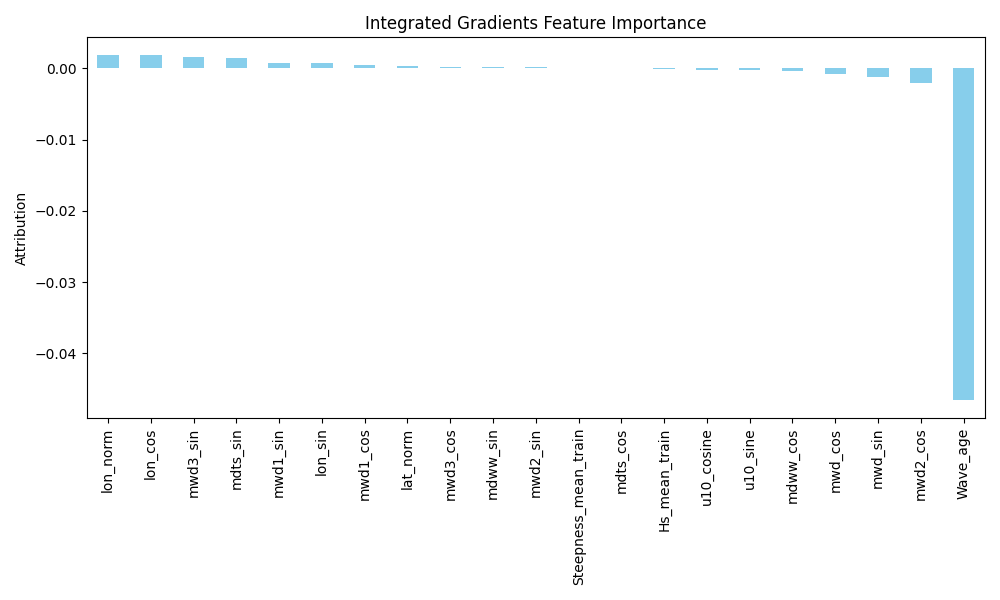
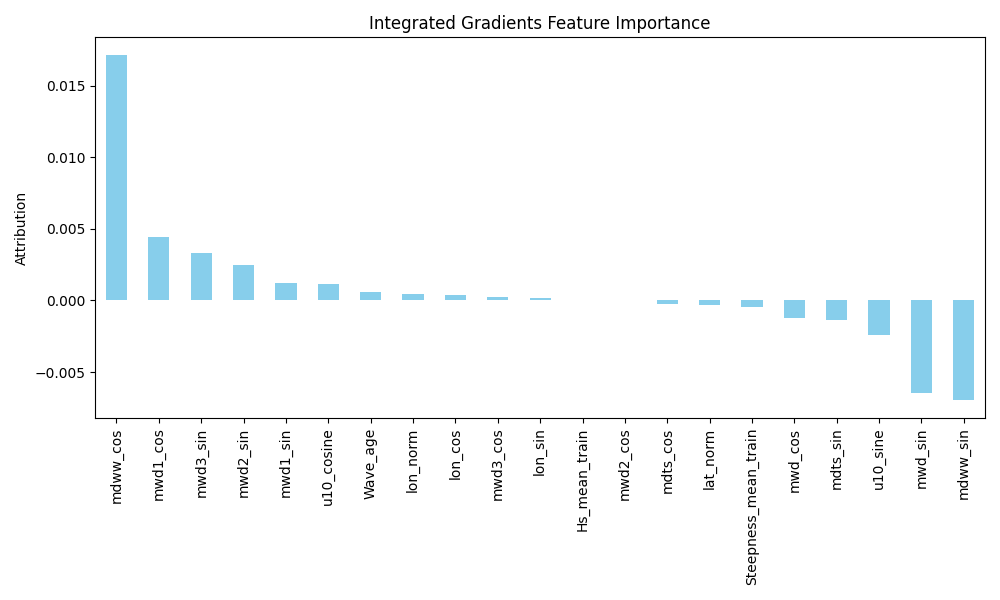
adjust in the files

diff --git a/src/02_engine.py b/src/02_engine.py
@@ -238,15 +238,18 @@ def plot_spatial_comparison(df_test, y_true, y_pred, pth):
     fig = plt.figure()
     # Plot 1: Real Values
     plt.subplot(1, 3, 1)
-    generate_map(spatial_df['y_true'].values.reshape(len(lat), len(lon)), lat, lon, 'Ground Truth', 'viridis')
+    generate_map(spatial_df['y_true'].values.reshape(len(lat), len(lon)), lat, lon, 
+                 'ERA5 Reanalysis', 'viridis')
 
     # Plot 2: Predicted Values
     plt.subplot(1, 3, 2)
-    generate_map(spatial_df['y_pred'].values.reshape(len(lat), len(lon)), lat, lon, 'CNN Prediction', 'viridis')
+    generate_map(spatial_df['y_pred'].values.reshape(len(lat), len(lon)), lat, lon, 
+                 'CNN Prediction', 'viridis')
 
     # Plot 3: Error (True - Predicted)
     plt.subplot(1, 3, 3)
-    generate_map(spatial_df['error'].values.reshape(len(lat), len(lon)), lat, lon, '$\Delta_{rel}$' + f' -- MAPE: {round(mape_value, 2)}', 'Reds')
+    generate_map(spatial_df['error'].values.reshape(len(lat), len(lon)), lat, lon, 
+                 '$\Delta_{rel}$' + f' -- MAPE: {round(mape_value, 2)}', 'Reds')
 
     plt.savefig(f'{pth}spatio_temporal_comparison.png')
     plt.close()
@@ -311,11 +314,13 @@ def plot_wave_age_comparison(df_test, y_true, y_pred, cfg, pth):
 
         # --- Plot Ground Truth ---
         plt.sca(axes[i, 0])
-        generate_map(spatial_df['y_true'].values.reshape(len(lat), len(lon)), lat, lon, f'Ground Truth ({condition_name})', 'viridis')
+        generate_map(spatial_df['y_true'].values.reshape(len(lat), len(lon)), lat, lon, 
+                     f'ERA5 Reanalysis ({condition_name})', 'viridis')
 
         # --- Plot CNN Prediction ---
         plt.sca(axes[i, 1])
-        generate_map(spatial_df['y_pred'].values.reshape(len(lat), len(lon)), lat, lon, f'CNN Prediction ({condition_name})', 'viridis')
+        generate_map(spatial_df['y_pred'].values.reshape(len(lat), len(lon)), lat, lon, 
+                     f'CNN Prediction ({condition_name})', 'viridis')
 
         # --- Plot Relative Error ---
         plt.sca(axes[i, 2])

diff --git a/src/config.py b/src/config.py
@@ -27,7 +27,7 @@ add_name_version  = 'all_nondim_variables_v2'
 # ===========================
 #  MODEL TRAINING
 # ===========================
-load_trained_model = False
+load_trained_model = True
 use_sampling   = False
 
 # ===========================

diff --git a/README.md b/README.md
@@ -1,23 +1,112 @@
-# SpaceTemporal Ocean Wave Prediction
+# STOWP - SpaceTemporal Ocean Wave Prediction
 
 [![License: MIT](https://img.shields.io/badge/License-MIT-yellow.svg)](https://opensource.org/licenses/MIT)
 
-A neural network framework to predict ocean wave variables in 2D domains
+A CNN framework to predict ocean wave variables in two-dimensional domains.
 
-## Project Organization
+## Overview
+
+This repository houses the STOWP - SpaceTemporal Ocean Wave Prediction pipeline, a deep learning  project designed to predict non-dimensional wave parameters using ERA5 
+reanalysis data. The system utilizes a Convolutional Neural Network (CNN) to 
+analyze wind-sea and swell regimes, incorporating features like Wave Age and 
+Wave Steepness.
+
+## Prerequisites
+
+1. Python 3.8+
+2. System Dependencies: The visualization module uses 'Basemap', which often 
+   requires 'libgeos' installed at the system level (e.g., 
+   'sudo apt-get install libgeos-dev' on Linux).
+
+## Dependencies
+
+Install the necessary dependencies (TensorFlow, Keras, Xarray, Pandas, 
+Matplotlib, Basemap, SHAP, etc.) using:
+
+    pip install -r requirements.txt
+
+## Project Structure
+
+The project is organized modularly to separate configuration, processing, and modeling.
 
 ```
-├── LICENSE            <- Open-source license if one is chosen
-├── README.md          <- The top-level README for developers using this project.
-├── data
-│   ├── processed      <- The final, canonical data sets for modeling.
-│   └── raw            <- The original, immutable data dump.
-├── requirements.txt   <- The requirements file for reproducing the analysis environment, e.g.
-│                         generated with `pip freeze > requirements.txt`
-└── src                <- Source code for use in this project.
-    │
-    ├── create_figures.py       <- Makes region plot for the dataset
-    │
-    ├── config.py               <- Store useful variables and configuration
-    │
+├── data/
+│   ├── raw/                # Place your input NetCDF files here 
+│   └── processed/          # Generated files from 01_create_data.py will be saved here
+├── results/                # Model checkpoints, logs, and visualization outputs
+├── src/                    # Source code
+│   ├── config.py           # Central configuration for paths and parameters
+│   ├── 01_create_data.py   # Pre-processing pipeline (NetCDF -> CSV)
+│   ├── 02_engine.py        # CNN Model training, evaluation, and visualization
+├── requirements.txt        # lib dependencies
+├── LICENSE                 # Project License
+└── README.md               # Project documentation
+```
 
+## Getting Started
+
+Step 0: Clone the repository:
+---------------------
+    ```bash
+    git clone https://github.com/felipeminuzzi/STOWP_SpaceTemp-wave-pred.git
+    cd STOWP_SpaceTemp-wave-pred
+    ```
+
+Step 1: Configuration
+---------------------
+Edit 'src/config.py' to adjust paths and hyperparameters.
+  - Paths: The script automatically detects the project root relative to the 
+    'scripts' folder.
+  - Model Control: Set 'load_trained_model = False' to retrain the CNN from 
+    scratch.
+  - Features: Modify the 'feature_var' list to add or remove inputs. The 
+    current setup uses features like 'Hs_mean_train', 'Steepness_mean_train', 
+    and circular directional variables.
+
+Step 2: Data Pre-processing
+---------------------------
+Run the data creation script to transform raw NetCDF data into an engineered 
+CSV format:
+
+    python ./src/01_create_data.py
+
+This script performs the following operations:
+  - Reads raw NetCDF files via Xarray.
+  - Feature Engineering: Calculates physical variables such as Wave Age, 
+    Wave Steepness (Hs / L), and non-dimensional peak period.
+  - Vectorization: Converts circular directional variables (degrees) into 
+    sine/cosine pairs (e.g., u10_sine, mwd_cos).
+  - Saves the output in chunks to 'data/processed/'.
+
+Step 3: Model Training & Evaluation
+-----------------------------------
+Run the main engine to train the model and generate results:
+
+    python src/02_engine.py
+
+This script handles:
+  - Climatology: Calculates spatial mean features (Hs_mean_train, 
+    Steepness_mean_train) to provide location awareness to the model.
+  - Stratified Sampling: Implements optional sampling based on Wave Age 
+    thresholds to balance wind-sea and swell representation.
+  - CNN Training: Trains a 4-layer 2D Convolutional Neural Network.
+  - Explainability: Computes Integrated Gradients to determine feature 
+    importance.
+
+================================================================================
+OUTPUTS
+================================================================================
+
+Results are saved to the 'results/' directory defined in your config file. 
+Key artifacts include:
+
+1. Visualizations:
+   - spatio_temporal_comparison.png: Spatial maps comparing ERA5 Ground Truth 
+     vs. CNN Predictions and relative error.
+   - wave_age_comparison.png: Performance breakdown split by "Wind Sea" 
+     (Young waves) and "Swell" (Old waves) conditions.
+   - integrated_gradients_importance.png: Bar chart showing the attribution 
+     of each input feature.
+
+2. Model:
+   - best_cnn_model.keras: The saved, trained neural network.
